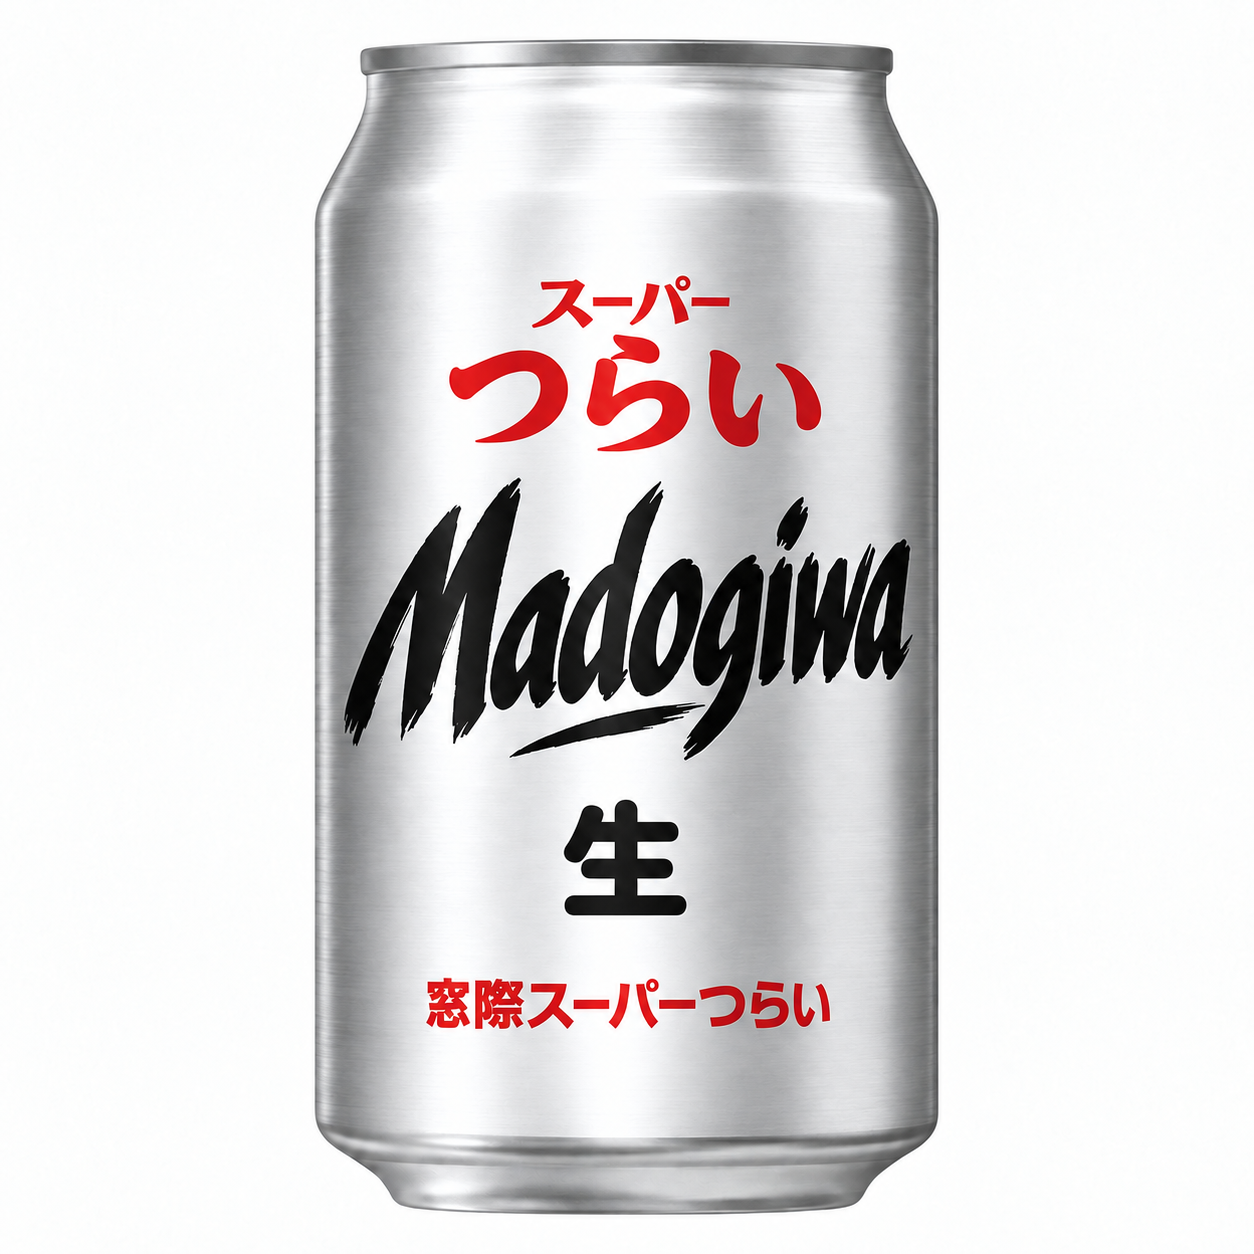
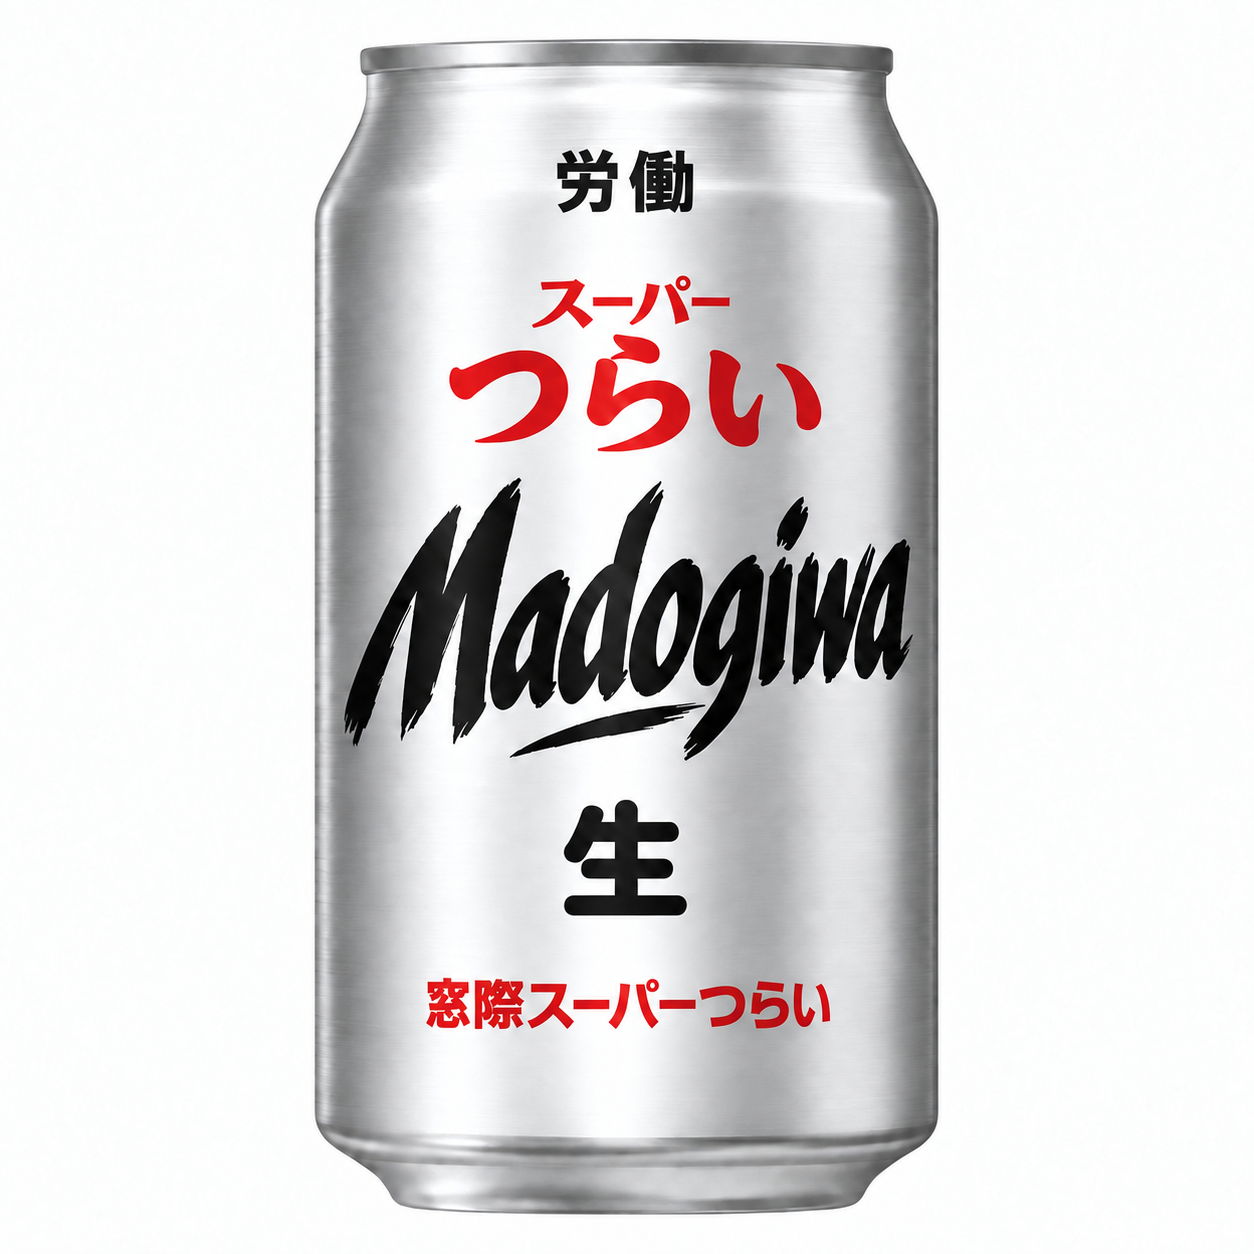
Adopt labor label on Super Tsurai can

diff --git a/03_SCRIPTS/00_TEMPLATES/props/README.md b/03_SCRIPTS/00_TEMPLATES/props/README.md
@@ -3,8 +3,8 @@
 ## 窓際スーパーつらい（窓際スーパーツライ）
 
 - 正本画像: `product_super_try.png`
-- 2026-09-10、ユーザーが比較画像の一番左・A案を採用後、「辛口」「350ml」を削除し、「生」を小さめの丸ゴシックに変えた修正版を採用。
-- 銀地、赤い「スーパー」「つらい」、中央の黒い筆記体「Madogiwa」、小さめの丸ゴシックの黒い「生」、下部の赤い「窓際スーパーつらい」。上部と下部は銀地の余白とし、「辛口」「350ml」は表示しない。
+- 2026-09-10、ユーザーが比較画像の一番左・A案を採用後、「辛口」「350ml」を削除し、「生」を小さめの丸ゴシックに変えた修正版を採用。さらに上部の旧「辛口」位置へ黒い「労働」を追加した版を最終採用。
+- 銀地、上部の黒い「労働」、赤い「スーパー」「つらい」、中央の黒い筆記体「Madogiwa」、小さめの丸ゴシックの黒い「生」、下部の赤い「窓際スーパーつらい」。下部は銀地の余白とし、「辛口」「350ml」は表示しない。
 - 「生」の周囲の英文、麦の飾り、二重枠はなくす。英字「TRY」は使わず、ひらがなの「つらい」を使う。
 - 次回以降の新規制作ではこの画像を参照する。必要なエピソードフォルダへ `product_super_try.png` として実ファイルをコピーし、入力スナップショットとして管理する。
 - エピソード63〜66にある旧画像は過去の生成入力として保持する。新作の参照元には使わない。

diff --git a/CLAUDE.md b/CLAUDE.md
@@ -3,7 +3,7 @@
 「窓際族物語」のIP（世界観・キャラクター設定）と、それを使った制作物（Seedance向け動画、今後はゲームも）を管理するモノレポ。
 
 ## 制作時の参照ファイル
-- 窓際スーパーつらいの標準缶: `03_SCRIPTS/00_TEMPLATES/props/product_super_try.png`（2026-09-10採用のA案修正版。「辛口」「350ml」は削除。銀地・赤いひらがな「つらい」・黒い筆記体Madogiwa・小さめの丸ゴシックの「生」。次回以降はこれを使い、エピソード63〜66の旧缶を参照元にしない。詳細: `03_SCRIPTS/00_TEMPLATES/props/README.md`）
+- 窓際スーパーつらいの標準缶: `03_SCRIPTS/00_TEMPLATES/props/product_super_try.png`（2026-09-10採用のA案修正版。上部は黒い「労働」。「辛口」「350ml」は表示しない。銀地・赤いひらがな「つらい」・黒い筆記体Madogiwa・小さめの丸ゴシックの「生」。次回以降はこれを使い、エピソード63〜66の旧缶を参照元にしない。詳細: `03_SCRIPTS/00_TEMPLATES/props/README.md`）
 - 世界観の基本資料: `01_WORLD/WORLD_BIBLE.md`（ユーザー指定がないときの出発点。改変可能）
 - 過去エピソード台帳: `01_WORLD/STORY_TIMELINE.md`（ネタと出来事の参照用。正史の連続性や整合性を要求しない）
 - キャラクター設定: `02_CHARACTERS/*.md`（各ファイルの「人物同一性」だけを維持し、それ以外は通常形の参考とする）
